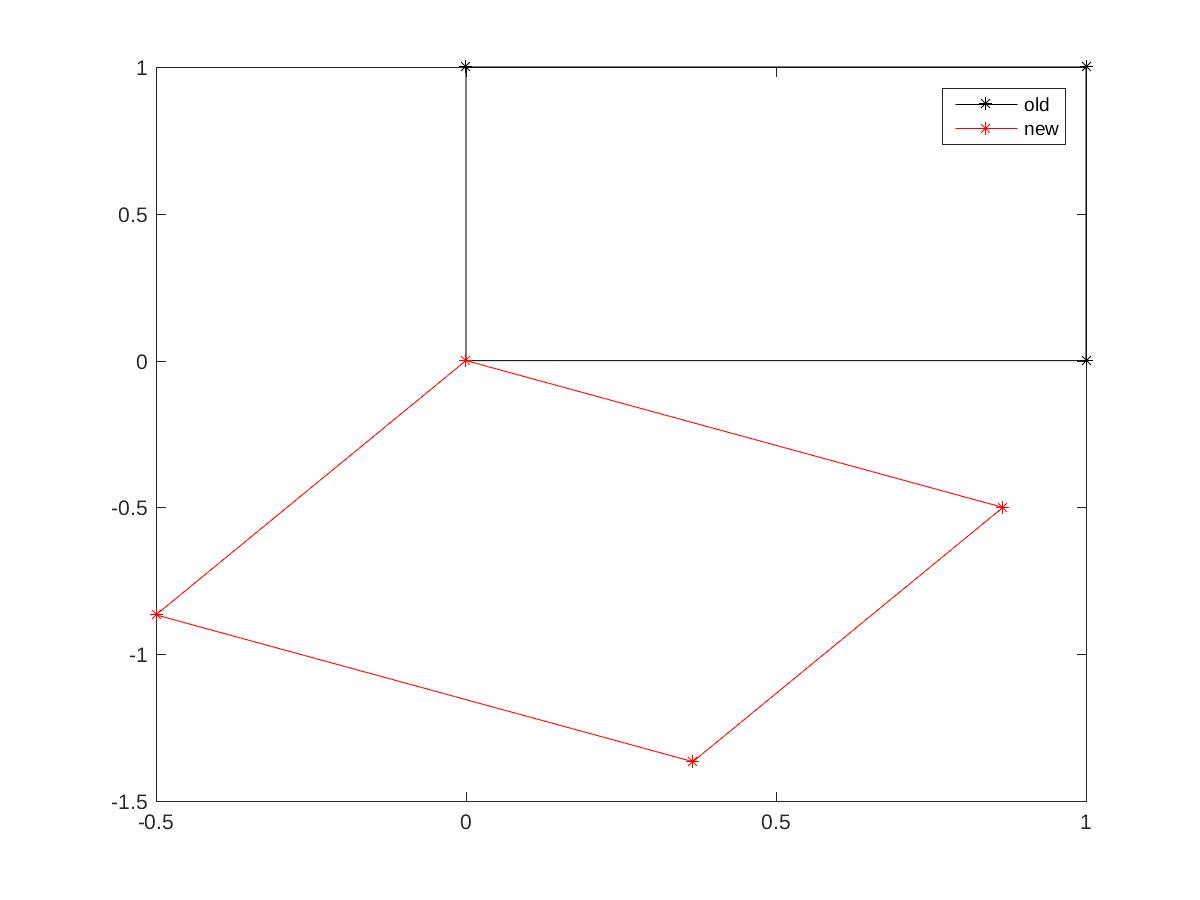
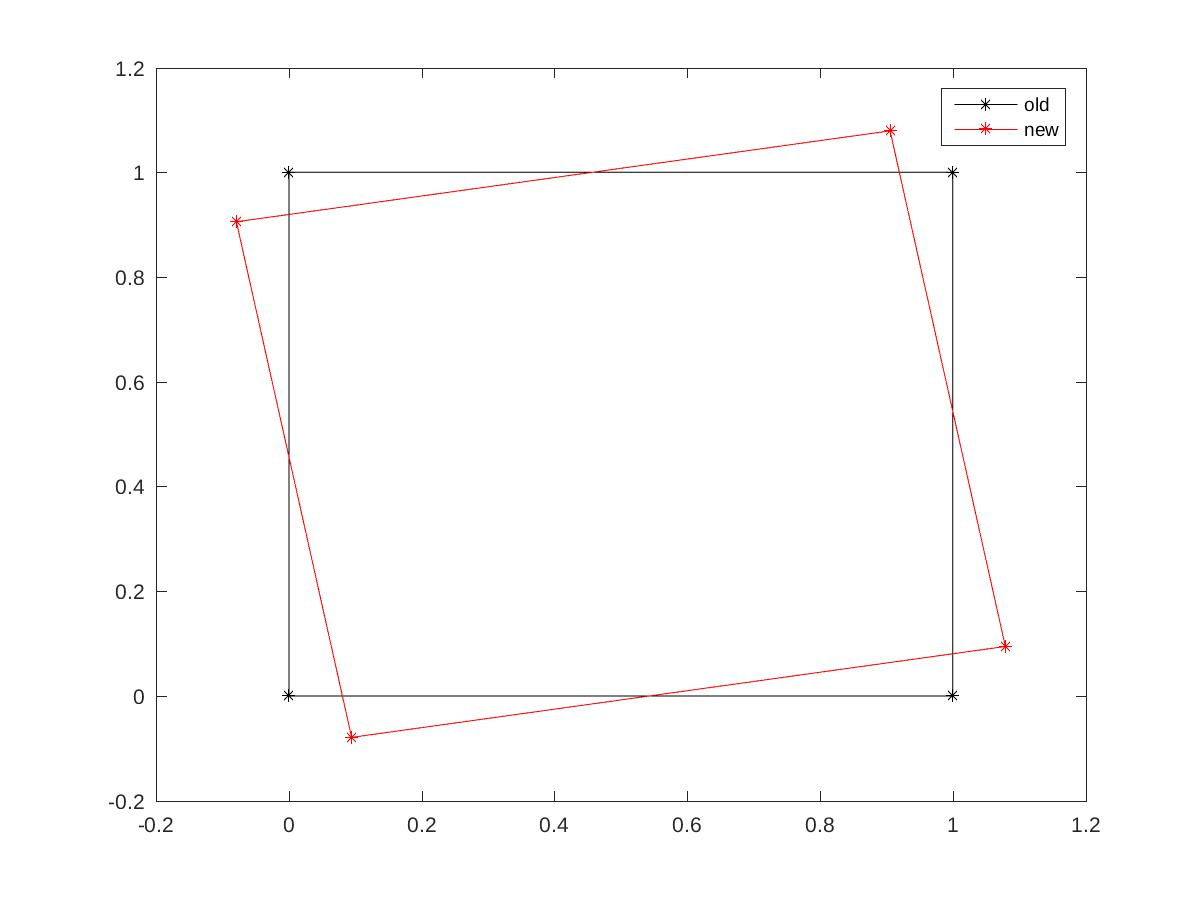
D_sq corrected. rotations checked.

diff --git a/strain_analysis_v2.m b/strain_analysis_v2.m
@@ -4,90 +4,91 @@ xcoords = load('vertex_xcoords.dat');
 ycoords = load('vertex_ycoords.dat');
 
 range_n = size(xcoords,1);
-range_t = size(xcoords,2) - 1;
+range_t = size(xcoords,2);
 % range_t = 2;
 
-position = cell(range_t+1, 1);
-for t = 1 : range_t+1
+position = cell(range_t, 1);
+for t = 1 : range_t
     position{t} = [xcoords(:,t) ycoords(:,t)];
 end
 
-X = cell(range_t+1,1);
-Y = cell(range_t+1,1);
-length = cell(range_t+1,1);
-del_l = cell(range_t+1,1);
-strain = cell(range_t+1,1);
 del_t = 1;
+X = cell(range_t-del_t,1);
+Y = cell(range_t-del_t,1);
+strain = cell(range_t-del_t,1);
 
 
-for t = 1 : range_t
-    length{t} = zeros(6,6);
-    for n = 1 : range_n
-        for m = 1 : n
-            length{t}(n,m) = sqrt((position{t}(n,:) - position{t}(m,:))*transpose(position{t}(n,:) - position{t}(m,:)));
-            length{t}(m,n) = length{t}(n,m);
-        end
-    end
-end
-
-for t = 1+del_t : range_t
-    del_l{t} = length{t} - length{t-del_t};
-end
-
+% for t = 1 : range_t
+%     length{t} = zeros(6,6);
+%     for n = 1 : range_n
+%         for m = 1 : n
+%             length{t}(n,m) = sqrt((position{t}(n,:) - position{t}(m,:))*transpose(position{t}(n,:) - position{t}(m,:)));
+%             length{t}(m,n) = length{t}(n,m);
+%         end
+%     end
+% end
 
 
 for t = 1+del_t : range_t
-    X{t} = zeros(2,2);
-    Y{t} = zeros(2,2);
+    X{t-del_t} = zeros(2,2);
+    Y{t-del_t} = zeros(2,2);
     for i = 1 : 2
        for j = 1 : 2
-          for n = 1:range_n
-              X{t}(i,j) = X{t}(i,j) + (position{t}(n,i) - position{t}(1,i))*(position{t-del_t}(n,j) - position{t-del_t}(1,j));
-              Y{t}(i,j) = Y{t}(i,j) + (position{t-del_t}(n,i) - position{t-del_t}(1,i))*(position{t-del_t}(n,j) - position{t-del_t}(1,j));
+          for n = 2:range_n
+              X{t-del_t}(i,j) = X{t-del_t}(i,j) + (position{t}(n,i) - position{t}(1,i))*(position{t-del_t}(n,j) - position{t-del_t}(1,j));
+              Y{t-del_t}(i,j) = Y{t-del_t}(i,j) + (position{t-del_t}(n,i) - position{t-del_t}(1,i))*(position{t-del_t}(n,j) - position{t-del_t}(1,j));
           end
        end
     end
+    Y{t-del_t} = inv(Y{t-del_t});
 end
 
-s11 = [];
-s12 = [];
-s21 = [];
-s22 = [];
+D_sq = cell(range_t-del_t,1);
+I = [1,0;0,1];
 
-for t = 1+del_t : range_t
+for t = 1 : range_t-del_t
     strain{t} = zeros(2,2);
     for i = 1 : 2
       for j = 1 : 2
         for k = 1 : 2
-          strain{t}(i,j) = strain{t}(i,j) + (X{t}(i,k) / Y{t}(j,k));
+          strain{t}(i,j) = strain{t}(i,j) + (X{t}(i,k) * Y{t}(j,k));
         end
       end
     end
+    strain{t} = strain{t} - I;
 
-    strain{t} = strain{t} - [1 0; 0 1];
-    s11 = [s11 strain{t}(1,1)];
-    s12 = [s12 strain{t}(1,2)];
-    s21 = [s21 strain{t}(2,1)];
-    s22 = [s22 strain{t}(2,2)];
-
+    D_sq{t} = 0;
+    for n = 2 : range_n
+      dummyn = 0;
+      for i = 1 : 2
+        % dummy1 = 0;
+        % dummy1 = dummy1 + (position{t+del_t}(n,i) - position{t+del_t}(1,i));
+        dummy = 0;
+        for j = 1 : 2
+          dummy = dummy + (I(i,j) + strain{t}(i,j))*(position{t}(n,j) - position{t}(1,j));
+        end
+        dummyn = dummyn + ((position{t+del_t}(n,i) - position{t+del_t}(1,i)) - dummy)^2;
+        % dummyn = dummyn + dummy1^2;
+      end
+      D_sq{t} = D_sq{t} + dummyn;
+    end
 end
 
-fig= figure;
-[f,x] = hist(s11, 25);
-bar(x, f/sum(f))
-title('s11')
+s1 = [];
+s2 = [];
+s3 = [];
 
-fig= figure;
-[f,x] = hist(s12, 25);
-bar(x, f/sum(f))
-title('s12')
+for i = 1 : range_t-del_t
+  s1 = [s1, 0.5*trace(strain{i})];
+  s2 = [s2, 0.5*(strain{i}(1,1)-strain{i}(2,2))];
+  s3 = [s3, 0.5*(strain{i}(1,2)+strain{i}(2,1))];
+end
 
-fig= figure;
-[f,x] = hist(s21, 25);
-bar(x, f/sum(f))
-title('s21')
-
-fig= figure;
-[f,x] = hist(s22, 25);
-bar(x, f/sum(f))
-title('s22')
+[val,pos] = hist(s1);
+plot(pos, val/trapz(pos,val), '*-');
+hold on
+[val,pos] = hist(s2);
+plot(pos, val/trapz(pos,val), 'r*-');
+[val,pos] = hist(s3);
+plot(pos, val/trapz(pos,val), 'g*-');
+legend('e1','e2','e3')

diff --git a/check_rot_v2.m b/check_rot_v2.m
@@ -14,7 +14,7 @@ func_sketch(pos_i,pos_f,fname)
 
 %calculate strain using the ref.
 % del_t = 1;
-disp('strain tensor')
+% disp('strain tensor')
 [s, dsq] = func_strain_v2(pos_i, pos_f)
 
 %pure compression component of the strain tensor
@@ -24,12 +24,13 @@ pc = 0.5*trace(s)*[1,0; 0,1]
 disp('pure shear')
 ps = s - 0.5*trace(s)*[1,0; 0,1]
 
-e1 = (s(1,1)+s(2,2)) /2;
-e2 = (s(1,1)-s(2,2)) /2;
-e3 = (s(1,2)+s(2,1)) /2;
+e1 = (s(1,1)+s(2,2)) /2
+e2 = (s(1,1)-s(2,2)) /2
+e3 = (s(1,2)+s(2,1)) /2
 
-disp([e1,e2,e3])
-disp(dsq)
+% disp([e1,e2,e3])
+% disp(dsq)
+pause
 pos_i = [0,0; 0,1; 1,1; 1,0];
 %final positions (after deformation) of the same points
 pos_f = [0.1,0.1; 0.1,0.9; 0.9,0.9; 0.9,0.1];
@@ -41,7 +42,7 @@ func_sketch(pos_i,pos_f,fname)
 %calculate strain using the ref.
 % del_t = 1;
 disp('strain tensor')
-s = func_strain_v2(pos_i, pos_f)
+[s, dsq] = func_strain_v2(pos_i, pos_f)
 
 %pure compression component of the strain tensor
 disp('hydrostatic compression')
@@ -50,11 +51,11 @@ pc = 0.5*trace(s)*[1,0; 0,1]
 disp('pure shear')
 ps = s - 0.5*trace(s)*[1,0; 0,1]
 
-e1 = (s(1,1)+s(2,2)) /2;
-e2 = (s(1,1)-s(2,2)) /2;
-e3 = (s(1,2)+s(2,1)) /2;
+e1 = (s(1,1)+s(2,2)) /2
+e2 = (s(1,1)-s(2,2)) /2
+e3 = (s(1,2)+s(2,1)) /2
 
-disp([e1 e2 e3])
+% disp([e1 e2 e3])
 pause
 
 %--------------------now rotate-----------------------
@@ -69,7 +70,7 @@ func_sketch(pos_i,pos_f,fname)
 %calculate strain using the ref.
 % del_t = 1;
 disp('strain tensor')
-s = func_strain_v2(pos_i, pos_f)
+[s,dsq] = func_strain_v2(pos_i, pos_f)
 
 %pure compression component of the strain tensor
 disp('hydrostatic compression')
@@ -78,12 +79,37 @@ pc = 0.5*trace(s)*[1,0; 0,1]
 disp('pure shear')
 ps = s - 0.5*trace(s)*[1,0; 0,1]
 
-e1 = (s(1,1)+s(2,2)) /2;
-e2 = (s(1,1)-s(2,2)) /2;
-e3 = (s(1,2)+s(2,1)) /2;
+e1 = (s(1,1)+s(2,2)) /2
+e2 = (s(1,1)-s(2,2)) /2
+e3 = (s(1,2)+s(2,1)) /2
 
-<<<<<<< HEAD
-disp([e1,e2,e3])
-disp(dsq)
-disp([e1 e2 e3])
+% disp([e1,e2,e3])
+% disp(dsq)
+% disp([e1 e2 e3])
 pause
+%------------------------
+close all
+theta = 10/180*pi;
+pos_f = pos_i - [0.5,0.5; 0.5,0.5; 0.5,0.5; 0.5,0.5];
+pos_f = func_rotate(pos_f,theta);
+pos_f = pos_f + [0.5,0.5; 0.5,0.5; 0.5,0.5; 0.5,0.5];
+
+%sketch the initial and final positions
+fname =sprintf('pure compression v2 rotated');
+func_sketch(pos_i,pos_f,fname)
+
+%calculate strain using the ref.
+% del_t = 1;
+disp('strain tensor')
+[s,dsq] = func_strain_v2(pos_i, pos_f)
+
+%pure compression component of the strain tensor
+disp('hydrostatic compression')
+pc = 0.5*trace(s)*[1,0; 0,1]
+%pure shear
+disp('pure shear')
+ps = s - 0.5*trace(s)*[1,0; 0,1]
+
+e1 = (s(1,1)+s(2,2)) /2
+e2 = (s(1,1)-s(2,2)) /2
+e3 = (s(1,2)+s(2,1)) /2

diff --git a/func_strain_v2.m b/func_strain_v2.m
@@ -3,7 +3,7 @@
 %
 
 function [epsilon, D_sq] = func_strain_v2(posi, posf)
-function [epsilon] = func_strain_v2(posi, posf)
+% function [epsilon] = func_strain_v2(posi, posf)
 
 n_points = size(posi,1);
 t_points = size(posf,2);
@@ -36,15 +36,15 @@ epsilon = epsilon - [1,0; 0,1];
 
 I = [1,0;0,1];
 D_sq = 0;
-dummy1 = 0;
 for n = 2 : n_points
+  dummyn = 0;
   for i = 1 : 2
-    dummy1 = dummy1 + (r{2}(n,i) - r{2}(1,i));
+    % dummy1 = dummy1 + (r{2}(n,i) - r{2}(1,i));
     dummy = 0;
     for j = 1 : 2
       dummy = dummy + (I(i,j) + epsilon(i,j))*(r{1}(n,j) - r{1}(1,j));
     end
-    dummy = dummy - dummy1;
-    D_sq = D_sq + dummy1^2;
+    dummyn = dummyn + (r{2}(n,i) - r{2}(1,i) - dummy)^2 ;
   end
+  D_sq = D_sq + dummyn;
 end
